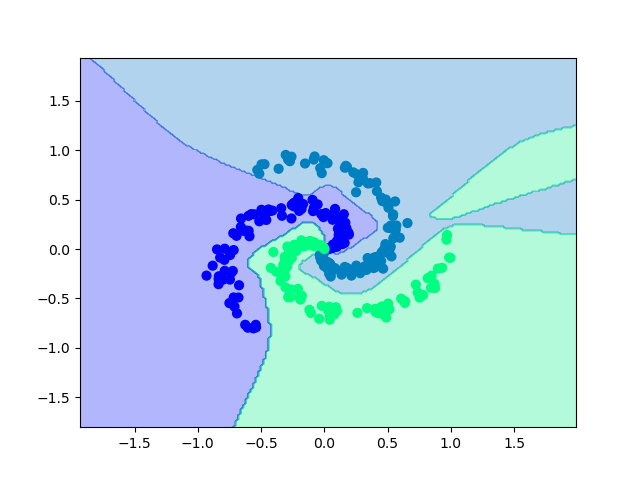
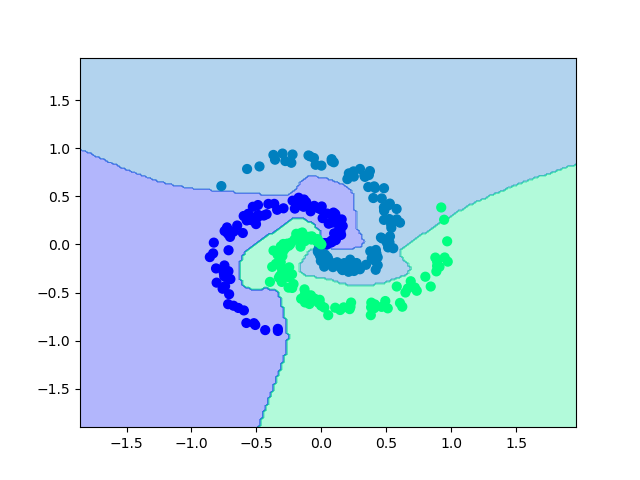
Functional version of hw01 working.

diff --git a/spiral_hw_01/past/gibbons_hw_01_3.py b/spiral_hw_01/past/gibbons_hw_01_3.py
@@ -14,21 +14,11 @@ import time
 import matplotlib.pyplot as plt
 import numpy as np
 
-try:
-    from spiral_training_data import generate_spiral_data
-except:
-    import Spiral_training_data
-
-start = time.time()
-
 
 # %%
 # initialize parameters randomly
 try:
-    (n_classes, n_dims, n_points, n_hidden) = (K, D, N, h)
-    (data_mat, true_labels) = (Xt, y)
-
-except NameError:
+    from spiral_training_data import generate_spiral_data
     n_classes = 3
     n_dims = 2
     n_points = 100
@@ -37,33 +27,22 @@ except NameError:
                                                  n_dims=n_dims,
                                                  n_points=n_points)
 
-
-def one_hot(array):
-    y = array.copy()
-    oh = np.zeros((y.size, y.max() + 1))
-    oh[np.arange(y.size), y] = 1
-    return oh
-
-
-true_labels = one_hot(true_labels).T
-# sizes = [n_dims, n_hidden, n_classes]
-# y = [y for y in sizes[1:]]
-# x = [x for x in sizes[:-1]]
-
-weight_2 = 0.01 * np.random.randn(n_hidden, n_dims)
-bias_2 = np.zeros((n_hidden, 1))
-
-weight_3 = 0.01 * np.random.randn(n_classes, n_hidden)
-bias_3 = np.zeros((n_classes, 1))
-
-# some hyperparameters
-learn_rate = 1e-0  # learning rate / step size. Eta in formulas
-reg_strength = 0*1e-3  # regularization strength. Lambda in formulas
+except ImportError:
+    (n_classes, n_dims, n_points, n_hidden) = (K, D, N, h)
+    (data_mat, true_labels) = (Xt, y)
 
 
 # %%
-def relu(vals):
-    return np.maximum(0, vals)
+def encode(array):
+    y = array.copy()
+    oh = np.zeros((y.size, y.max() + 1))
+    oh[np.arange(y.size), y] = 1
+    return oh.T
+
+
+def decode(one_hot, axis=0):
+    y = one_hot.copy()
+    return y.argmax(axis=axis)
 
 
 def sigmoid(z):
@@ -82,72 +61,147 @@ def update_parameter(parameter, parameter_partial):
     return parameter - learn_rate * parameter_partial
 
 
-def add_regularization(weight, weight_partial):
-    return weight_partial + (reg_strength / n_observation) * weight
-    # return weight_partial + reg_strength * weight
+def regularize_cost(strength, n_obs, weights):
+    ss = [np.sum(w ** 2) for w in weights]
+    return strength / 2 / n_obs * np.sum(ss)
 
 
-def ss(arr):
-    return np.sum(arr ** 2)
+def quadratic_cost(true, predictions, n_observation):
+    return 0.5 * ((true - predictions) ** 2).sum() / n_observation
+
+
+def calculate_cost(true, pred, n_obs, strength, weights):
+    cost = (quadratic_cost(true, pred, n_obs)
+            + regularize_cost(strength, n_obs, weights))
+    return cost
+
+
+def feed_forward(inp, weight, bias, activation=sigmoid):
+    z = weighted_input(weight, inp, bias)
+    act = activation(z)
+    return z, act
+
+
+def calc_err(true, pred, final_weight, n_obs, activation_prime=sigmoid_prime):
+    return (pred - true) * activation_prime(final_weight) / n_obs
+
+
+def backprop_err(later_err,
+                 later_weight,
+                 curr_weighted_input,
+                 activation_prime=sigmoid_prime):
+    return (later_weight.T @ later_err) * activation_prime(curr_weighted_input)
+
+
+def backprop_bias(current_error, axis=1):
+    return current_error.sum(axis=axis, keepdims=True)
+
+
+def backprop_weight(err, inp, strength, n_obs, weight):
+    return err @ inp.T + (strength / n_obs) * weight
+
+
+def regularize_weight_prime(weight, weight_partial):
+    return weight_partial + (reg_strength / n_obs) * weight
+
+
+# %%
+start = time.time()
+true_labels = encode(true_labels)
+
+weight_2 = 0.01 * np.random.randn(n_hidden, n_dims)
+bias_2 = np.zeros((n_hidden, 1))
+
+weight_3 = 0.01 * np.random.randn(n_classes, n_hidden)
+bias_3 = np.zeros((n_classes, 1))
+
+# some hyperparameters
+learn_rate = 1e-0  # learning rate / step size. Eta in formulas
+reg_strength = 0e-3  # regularization strength. Lambda in formulas
 
 
 # %%
 # gradient descent loop
 X = np.transpose(data_mat)
-n_observation = X.shape[1]
+n_obs = X.shape[1]
 n_epochs = int(1e5)
-cost_scaler = 0.5 * (reg_strength / n_observation)
-# cost_scaler = 0.5 * (reg_strength / 1)
+
+weights = [weight_2, weight_3]
+biases = [bias_2, bias_3]
 
 for epoch in range(n_epochs):
 
+    # --- Feed Forward ---
     # Compute weighted inputs and activations
-    weight_inp_2 = weighted_input(weight_2, X, bias_2)
-    activation_2 = sigmoid(weight_inp_2)
+    weight_inp_2, active_2 = feed_forward(X, weight_2, bias_2)
+    weight_inp_3, active_3 = feed_forward(active_2, weight_3, bias_3)
 
-    weight_inp_3 = weighted_input(weight_3, activation_2, bias_3)
-    activation_3 = sigmoid(weight_inp_3)
-
-    # Compute the loss
-    cost_y = 0.5 * ((true_labels - activation_3) ** 2)
-    avg_cost_y = cost_y.sum() / n_observation
-    cost_regularization = cost_scaler * np.sum((ss(weight_2), ss(weight_3)))
-    cost = avg_cost_y + cost_regularization
+    # --- Training Metrics ---
+    # Compute and print the regularized quadratic cost
+    cost = calculate_cost(
+        true=true_labels,
+        pred=active_3,
+        n_obs=n_obs,
+        strength=reg_strength,
+        weights=(weight_2, weight_3)
+    )
     if epoch % 1000 == 0:   # % -  modulo
         print(f'Epoch {epoch:04d}: loss {cost:.5f}')
 
-    # Compute the error term
-    delta_3 = (activation_3 - true_labels) * sigmoid_prime(weight_inp_3)
-    delta_3 /= n_observation
+    # ---- Backpropagation ----
+    # Initialize backpropagation using the final layer
+    activations = [X, active_2]
+    weights = [weight_2, weight_3]
+    biases = [bias_2, bias_3]
+    weighted_inputs = [weight_inp_2, weight_inp_3]
+    delta = calc_err(true_labels, active_3, weight_inp_3, n_obs)
+    for idx in reversed(range(len(weights))):
+        a = activations[idx]
+        w = weights[idx]
+        b = biases[idx]
+        z = weighted_inputs[idx - 1]
+        weight_pprime = backprop_weight(delta, a, reg_strength, n_obs, w)
+        bias_pprime = backprop_bias(delta, axis=1)
+        weights[idx] = update_parameter(w, weight_pprime)
+        biases[idx] = update_parameter(b, bias_pprime)
+        if idx > 0:
+            delta = backprop_err(delta, w, z)
 
-    # Use backprop to get the gradient of the parameters
-    # First backprop into parameters W3 and b3
-    weight_3_partial = delta_3 @ activation_2.T
-    weight_3_partial = add_regularization(weight_3, weight_3_partial)
-    bias_3_partial = delta_3.sum(axis=1, keepdims=True)
+    weight_2, weight_3 = weights
+    bias_2, bias_3 = biases
 
-    # Next backprop into hidden layer
-    delta_2 = (weight_3.T @ delta_3) * sigmoid_prime(weight_inp_2)
+    # delta = calc_err(true_labels, active_3, weight_inp_3, n_obs)
+    # weight_3_partial = backprop_weight(err=delta,
+    #                                    inp=active_2,
+    #                                    strength=reg_strength,
+    #                                    n_obs=n_obs,
+    #                                    weight=weight_3)
 
-    # Finally into W,b
-    weight_2_partial = delta_2 @ X.T
-    weight_2_partial = add_regularization(weight_2, weight_2_partial)
-    bias_2_partial = delta_2.sum(axis=1, keepdims=True)
+    # bias_3_partial = backprop_bias(delta, axis=1)
 
-    # Update weights and biases
-    weight_2 = update_parameter(weight_2, weight_2_partial)
-    bias_2 = update_parameter(bias_2, bias_2_partial)
+    # # Next backpropagate into previous (hidden layer)
+    # delta = backprop_err(delta, weight_3, weight_inp_2)
+    # weight_2_partial = backprop_weight(err=delta,
+    #                                    inp=X,
+    #                                    strength=reg_strength,
+    #                                    n_obs=n_obs,
+    #                                    weight=weight_2)
 
-    weight_3 = update_parameter(weight_3, weight_3_partial)
-    bias_3 = update_parameter(bias_3, bias_3_partial)
+    # bias_2_partial = backprop_bias(delta, axis=1)
+
+    # # --- Parameter Updates ---
+    # weight_2 = update_parameter(weight_2, weight_2_partial)
+    # bias_2 = update_parameter(bias_2, bias_2_partial)
+
+    # weight_3 = update_parameter(weight_3, weight_3_partial)
+    # bias_3 = update_parameter(bias_3, bias_3_partial)
 
 # evaluate training set accuracy
-activation_2 = sigmoid(weighted_input(weight_2, X, bias_2))
-activation_3 = weighted_input(weight_3, activation_2, bias_3)
-predicted_class = activation_3.argmax(axis=0)
-print(f'training accuracy: {np.mean(predicted_class == true_labels):.4f}')
-misses = np.argwhere(predicted_class != true_labels)
-#
+predicted_labels = decode(active_3)
+true_labels = decode(true_labels)
+print(f'training accuracy: {np.mean(predicted_labels == true_labels):.4f}')
+misses = np.argwhere(predicted_labels != true_labels)
+
 # plot the resulting classifier
 g = 0.02
 x_min, x_max = X[0, :].min() - 1, X[0, :].max() + 1
@@ -169,24 +223,10 @@ Z = np.argmax(z3_grid, axis=0)
 Z = Z.reshape(xx.shape)
 fig = plt.figure()
 plt.contourf(xx, yy, Z, cmap=plt.cm.winter, alpha=0.3)
-plt.scatter(X[0, :], X[1, :], c=true_labels.argmax(axis=0), s=40, cmap=plt.cm.winter)
+plt.scatter(X[0, :], X[1, :], c=true_labels, s=40, cmap=plt.cm.winter)
 plt.xlim(xx.min(), xx.max())
 plt.ylim(yy.min(), yy.max())
 fig.savefig('spiral_net.png')
 
 end = time.time()
 print(f'Time needed to run program: {end - start:.4f} seconds')
-
-print(activation_3.shape)
-print("")
-print(activation_3)
-print("")
-print(true_labels.shape)
-print("")
-print(true_labels)
-print("")
-print("true_labels-activation_3")
-print("")
-print(true_labels-activation_3)
-print("")
-print("Incorrect Use of broadcasting!!!")
